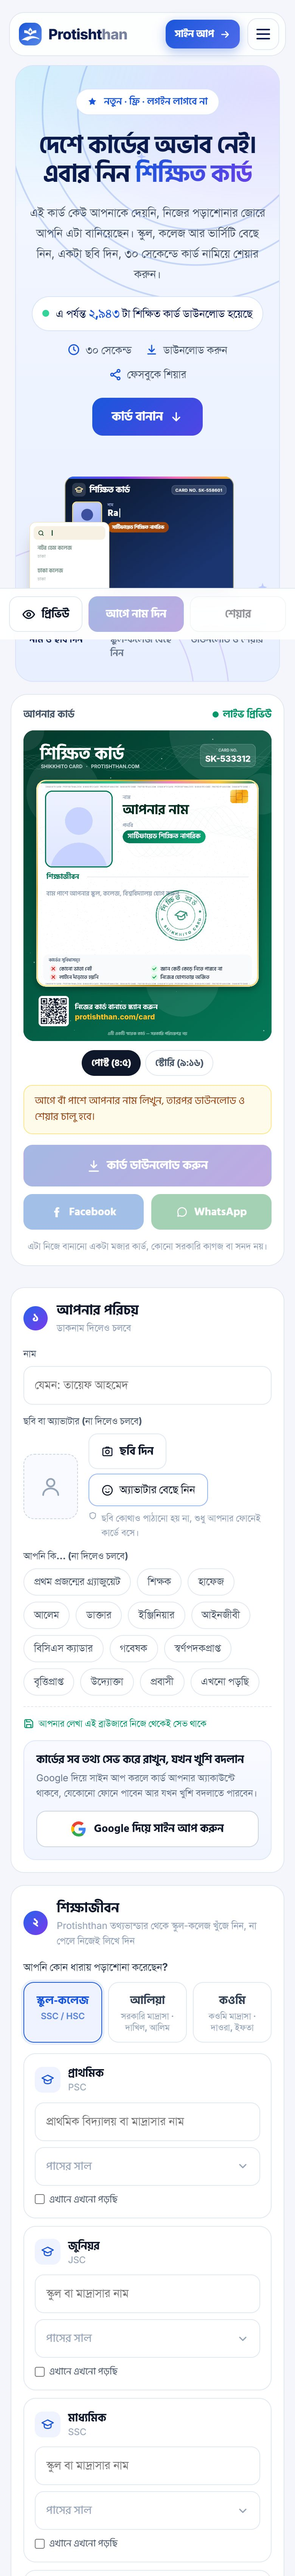
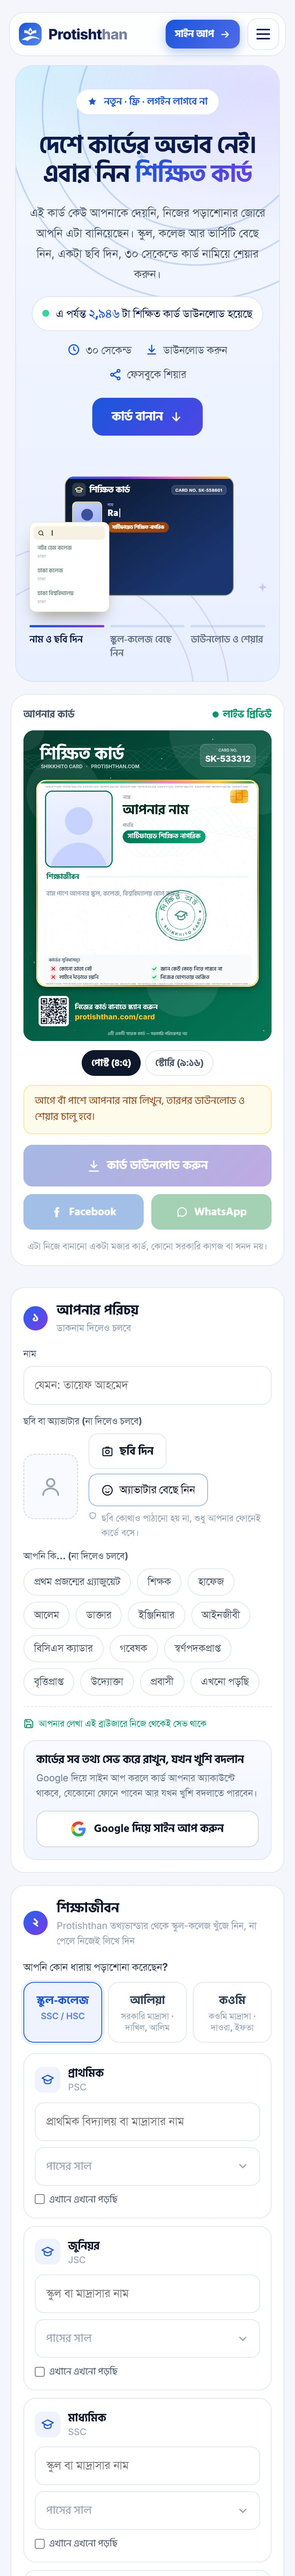
Collaborate page: the brand's places sit at clean gaps between sections of the real pages (card, skill, system); the card picture no longer has the fixed bottom bar in it.

Changed region(s): [[0.0615, 0.2182, 0.8615, 0.2494]]

diff --git a/collaborate.html b/collaborate.html
@@ -22,7 +22,7 @@
 <link rel="stylesheet" href="brand.css?v=3">
 <link rel="stylesheet" href="/nav.css?v=18">
 <link rel="stylesheet" href="/footer.css?v=5">
-<link rel="stylesheet" href="/collaborate.css?v=14">
+<link rel="stylesheet" href="/collaborate.css?v=15">
 <script src="/analytics.js?v=3" defer></script>
 </head>
 <body>
@@ -261,10 +261,10 @@
       <div class="co-pn" role="tabpanel" id="pn-card" aria-labelledby="tab-card" hidden style="--g:linear-gradient(135deg,#7C3AED,#DB2777);--c:#7C3AED;--soft:linear-gradient(160deg,#F6F0FF,#FDF2F8)">
         <div class="co-stage">
           <i class="st-o o1"></i><i class="st-o o2"></i>
-          <div class="ph" aria-hidden="true" style="--y1:-277px;--y2:-874px;--y3:-1332px;--s1:52.5px;--s2:165.6px;--s3:252.4px;--th:80px"><i class="ph-n"></i>
-            <div class="ph-view"><div class="ph-roll"><div class="seg" style="height:444.5px;background-image:url(/collab-ui/ui-card.jpg);background-size:220px 1917.9px;background-position:0 -0px"></div><div class="adw k1" style="height:88px"><div class="ad ad-b"><span class="tg">স্পন্সর</span><i class="lgo"><svg width="16" height="16" viewBox="0 0 24 24" fill="none" stroke="currentColor" stroke-width="2" stroke-linecap="round" stroke-linejoin="round" aria-hidden="true"><path d="m12 3 2.7 5.6 6.1.9-4.4 4.3 1 6.1L12 17l-5.4 2.9 1-6.1L3.2 9.5l6.1-.9L12 3z"/></svg></i><div class="tx"><b>আপনার ব্র্যান্ড</b><small>একটা ছোট, পরিষ্কার বার্তা</small></div><u>জানুন</u></div></div><div class="seg" style="height:491.9px;background-image:url(/collab-ui/ui-card.jpg);background-size:220px 1917.9px;background-position:0 -444.5px"></div><div class="adw k2" style="height:124px"><div class="ad ad-c"><span class="tg">স্পন্সর</span><div class="top"><i class="lgo"><svg width="16" height="16" viewBox="0 0 24 24" fill="none" stroke="currentColor" stroke-width="2" stroke-linecap="round" stroke-linejoin="round" aria-hidden="true"><path d="m12 3 2.7 5.6 6.1.9-4.4 4.3 1 6.1L12 17l-5.4 2.9 1-6.1L3.2 9.5l6.1-.9L12 3z"/></svg></i><div class="tx"><b>আপনার ব্র্যান্ড</b><small>আপনার সেবা বা অফারের পরিচিতি</small></div></div><div class="img"></div><div class="ft"><s>স্পন্সর করা</s><u>বিস্তারিত দেখুন →</u></div></div></div><div class="seg" style="height:341.3px;background-image:url(/collab-ui/ui-card.jpg);background-size:220px 1917.9px;background-position:0 -936.4px"></div><div class="adw k3" style="height:108px"><div class="ad ad-j"><span class="tg">যৌথভাবে</span><div class="duo"><i class="lgo pl"><img src="/logo-sm.webp" alt="" width="20" height="20"></i><em>+</em><i class="lgo"><svg width="16" height="16" viewBox="0 0 24 24" fill="none" stroke="currentColor" stroke-width="2" stroke-linecap="round" stroke-linejoin="round" aria-hidden="true"><path d="m12 3 2.7 5.6 6.1.9-4.4 4.3 1 6.1L12 17l-5.4 2.9 1-6.1L3.2 9.5l6.1-.9L12 3z"/></svg></i></div><div class="tx"><b>Protishthan × আপনার ব্র্যান্ড</b><small>একসঙ্গে একটা শিক্ষামূলক উদ্যোগ</small></div></div></div><div class="seg" style="height:640.3px;background-image:url(/collab-ui/ui-card.jpg);background-size:220px 1917.9px;background-position:0 -1277.7px"></div></div><i class="ph-sb"><b></b></i></div>
+          <div class="ph" aria-hidden="true" style="--y1:-344px;--y2:-889px;--y3:-1454px;--s1:65.2px;--s2:168.4px;--s3:275.5px;--th:80px"><i class="ph-n"></i>
+            <div class="ph-view"><div class="ph-roll"><div class="seg" style="height:512.2px;background-image:url(/collab-ui/ui-card.jpg);background-size:220px 1917.9px;background-position:0 -0px"></div><div class="adw k1" style="height:88px"><div class="ad ad-b"><span class="tg">স্পন্সর</span><i class="lgo"><svg width="16" height="16" viewBox="0 0 24 24" fill="none" stroke="currentColor" stroke-width="2" stroke-linecap="round" stroke-linejoin="round" aria-hidden="true"><path d="m12 3 2.7 5.6 6.1.9-4.4 4.3 1 6.1L12 17l-5.4 2.9 1-6.1L3.2 9.5l6.1-.9L12 3z"/></svg></i><div class="tx"><b>আপনার ব্র্যান্ড</b><small>একটা ছোট, পরিষ্কার বার্তা</small></div><u>জানুন</u></div></div><div class="seg" style="height:438.3px;background-image:url(/collab-ui/ui-card.jpg);background-size:220px 1917.9px;background-position:0 -512.2px"></div><div class="adw k2" style="height:124px"><div class="ad ad-c"><span class="tg">স্পন্সর</span><div class="top"><i class="lgo"><svg width="16" height="16" viewBox="0 0 24 24" fill="none" stroke="currentColor" stroke-width="2" stroke-linecap="round" stroke-linejoin="round" aria-hidden="true"><path d="m12 3 2.7 5.6 6.1.9-4.4 4.3 1 6.1L12 17l-5.4 2.9 1-6.1L3.2 9.5l6.1-.9L12 3z"/></svg></i><div class="tx"><b>আপনার ব্র্যান্ড</b><small>আপনার সেবা বা অফারের পরিচিতি</small></div></div><div class="img"></div><div class="ft"><s>স্পন্সর করা</s><u>বিস্তারিত দেখুন →</u></div></div></div><div class="seg" style="height:449.6px;background-image:url(/collab-ui/ui-card.jpg);background-size:220px 1917.9px;background-position:0 -950.5px"></div><div class="adw k3" style="height:108px"><div class="ad ad-j"><span class="tg">যৌথভাবে</span><div class="duo"><i class="lgo pl"><img src="/logo-sm.webp" alt="" width="20" height="20"></i><em>+</em><i class="lgo"><svg width="16" height="16" viewBox="0 0 24 24" fill="none" stroke="currentColor" stroke-width="2" stroke-linecap="round" stroke-linejoin="round" aria-hidden="true"><path d="m12 3 2.7 5.6 6.1.9-4.4 4.3 1 6.1L12 17l-5.4 2.9 1-6.1L3.2 9.5l6.1-.9L12 3z"/></svg></i></div><div class="tx"><b>Protishthan × আপনার ব্র্যান্ড</b><small>একসঙ্গে একটা শিক্ষামূলক উদ্যোগ</small></div></div></div><div class="seg" style="height:517.8px;background-image:url(/collab-ui/ui-card.jpg);background-size:220px 1917.9px;background-position:0 -1400.1px"></div></div><i class="ph-sb"><b></b></i></div>
           </div>
-          <ol class="co-legend" aria-label="ব্র্যান্ড কোথায় থাকতে পারে"><li class="lg k1"><span>১</span><div><b>কার্ডের শুরুতে</b><small>স্পন্সর ব্যানার</small></div></li><li class="lg k2"><span>২</span><div><b>ডাউনলোডের পরে</b><small>স্পন্সর কার্ড</small></div></li><li class="lg k3"><span>৩</span><div><b>ফর্মের মাঝে</b><small>যৌথ ক্যাম্পেইন</small></div></li></ol>
+          <ol class="co-legend" aria-label="ব্র্যান্ড কোথায় থাকতে পারে"><li class="lg k1"><span>১</span><div><b>প্রথম অংশের পরে</b><small>স্পন্সর ব্যানার</small></div></li><li class="lg k2"><span>২</span><div><b>ডাউনলোডের পরে</b><small>স্পন্সর কার্ড</small></div></li><li class="lg k3"><span>৩</span><div><b>ফর্মের দুটো ধাপের মাঝে</b><small>যৌথ ক্যাম্পেইন</small></div></li></ol>
           <span class="st-note">নমুনা চিত্র: আপনার ব্র্যান্ড এভাবে থাকতে পারে। সঠিক জায়গা আমরা একসঙ্গে ঠিক করব।</span>
         </div>
         <div class="co-pd">
@@ -315,10 +315,10 @@
       <div class="co-pn" role="tabpanel" id="pn-system" aria-labelledby="tab-system" hidden style="--g:linear-gradient(135deg,#B45309,#F59E0B);--c:#B45309;--soft:linear-gradient(160deg,#FFF7ED,#FEF3C7)">
         <div class="co-stage">
           <i class="st-o o1"></i><i class="st-o o2"></i>
-          <div class="ph" aria-hidden="true" style="--y1:-179px;--y2:-645px;--y3:-1666px;--s1:35.7px;--s2:128.7px;--s3:332.4px;--th:85px"><i class="ph-n"></i>
-            <div class="ph-view"><div class="ph-roll"><div class="seg" style="height:346.9px;background-image:url(/collab-ui/ui-software.jpg);background-size:220px 1805.1px;background-position:0 -0px"></div><div class="adw k1" style="height:88px"><div class="ad ad-b"><span class="tg">স্পন্সর</span><i class="lgo"><svg width="16" height="16" viewBox="0 0 24 24" fill="none" stroke="currentColor" stroke-width="2" stroke-linecap="round" stroke-linejoin="round" aria-hidden="true"><path d="m12 3 2.7 5.6 6.1.9-4.4 4.3 1 6.1L12 17l-5.4 2.9 1-6.1L3.2 9.5l6.1-.9L12 3z"/></svg></i><div class="tx"><b>আপনার ব্র্যান্ড</b><small>একটা ছোট, পরিষ্কার বার্তা</small></div><u>জানুন</u></div></div><div class="seg" style="height:359.9px;background-image:url(/collab-ui/ui-software.jpg);background-size:220px 1805.1px;background-position:0 -346.9px"></div><div class="adw k2" style="height:124px"><div class="ad ad-c"><span class="tg">স্পন্সর</span><div class="top"><i class="lgo"><svg width="16" height="16" viewBox="0 0 24 24" fill="none" stroke="currentColor" stroke-width="2" stroke-linecap="round" stroke-linejoin="round" aria-hidden="true"><path d="m12 3 2.7 5.6 6.1.9-4.4 4.3 1 6.1L12 17l-5.4 2.9 1-6.1L3.2 9.5l6.1-.9L12 3z"/></svg></i><div class="tx"><b>আপনার ব্র্যান্ড</b><small>আপনার সেবা বা অফারের পরিচিতি</small></div></div><div class="img"></div><div class="ft"><s>স্পন্সর করা</s><u>বিস্তারিত দেখুন →</u></div></div></div><div class="seg" style="height:905.4px;background-image:url(/collab-ui/ui-software.jpg);background-size:220px 1805.1px;background-position:0 -706.8px"></div><div class="adw k3" style="height:108px"><div class="ad ad-j"><span class="tg">যৌথভাবে</span><div class="duo"><i class="lgo pl"><img src="/logo-sm.webp" alt="" width="20" height="20"></i><em>+</em><i class="lgo"><svg width="16" height="16" viewBox="0 0 24 24" fill="none" stroke="currentColor" stroke-width="2" stroke-linecap="round" stroke-linejoin="round" aria-hidden="true"><path d="m12 3 2.7 5.6 6.1.9-4.4 4.3 1 6.1L12 17l-5.4 2.9 1-6.1L3.2 9.5l6.1-.9L12 3z"/></svg></i></div><div class="tx"><b>Protishthan × আপনার ব্র্যান্ড</b><small>একসঙ্গে একটা শিক্ষামূলক উদ্যোগ</small></div></div></div><div class="seg" style="height:192.9px;background-image:url(/collab-ui/ui-software.jpg);background-size:220px 1805.1px;background-position:0 -1612.2px"></div></div><i class="ph-sb"><b></b></i></div>
+          <div class="ph" aria-hidden="true" style="--y1:-179px;--y2:-706px;--y3:-1666px;--s1:35.7px;--s2:140.9px;--s3:332.4px;--th:85px"><i class="ph-n"></i>
+            <div class="ph-view"><div class="ph-roll"><div class="seg" style="height:346.9px;background-image:url(/collab-ui/ui-software.jpg);background-size:220px 1805.1px;background-position:0 -0px"></div><div class="adw k1" style="height:88px"><div class="ad ad-b"><span class="tg">স্পন্সর</span><i class="lgo"><svg width="16" height="16" viewBox="0 0 24 24" fill="none" stroke="currentColor" stroke-width="2" stroke-linecap="round" stroke-linejoin="round" aria-hidden="true"><path d="m12 3 2.7 5.6 6.1.9-4.4 4.3 1 6.1L12 17l-5.4 2.9 1-6.1L3.2 9.5l6.1-.9L12 3z"/></svg></i><div class="tx"><b>আপনার ব্র্যান্ড</b><small>একটা ছোট, পরিষ্কার বার্তা</small></div><u>জানুন</u></div></div><div class="seg" style="height:421.4px;background-image:url(/collab-ui/ui-software.jpg);background-size:220px 1805.1px;background-position:0 -346.9px"></div><div class="adw k2" style="height:124px"><div class="ad ad-c"><span class="tg">স্পন্সর</span><div class="top"><i class="lgo"><svg width="16" height="16" viewBox="0 0 24 24" fill="none" stroke="currentColor" stroke-width="2" stroke-linecap="round" stroke-linejoin="round" aria-hidden="true"><path d="m12 3 2.7 5.6 6.1.9-4.4 4.3 1 6.1L12 17l-5.4 2.9 1-6.1L3.2 9.5l6.1-.9L12 3z"/></svg></i><div class="tx"><b>আপনার ব্র্যান্ড</b><small>আপনার সেবা বা অফারের পরিচিতি</small></div></div><div class="img"></div><div class="ft"><s>স্পন্সর করা</s><u>বিস্তারিত দেখুন →</u></div></div></div><div class="seg" style="height:843.9px;background-image:url(/collab-ui/ui-software.jpg);background-size:220px 1805.1px;background-position:0 -768.3px"></div><div class="adw k3" style="height:108px"><div class="ad ad-j"><span class="tg">যৌথভাবে</span><div class="duo"><i class="lgo pl"><img src="/logo-sm.webp" alt="" width="20" height="20"></i><em>+</em><i class="lgo"><svg width="16" height="16" viewBox="0 0 24 24" fill="none" stroke="currentColor" stroke-width="2" stroke-linecap="round" stroke-linejoin="round" aria-hidden="true"><path d="m12 3 2.7 5.6 6.1.9-4.4 4.3 1 6.1L12 17l-5.4 2.9 1-6.1L3.2 9.5l6.1-.9L12 3z"/></svg></i></div><div class="tx"><b>Protishthan × আপনার ব্র্যান্ড</b><small>একসঙ্গে একটা শিক্ষামূলক উদ্যোগ</small></div></div></div><div class="seg" style="height:192.9px;background-image:url(/collab-ui/ui-software.jpg);background-size:220px 1805.1px;background-position:0 -1612.2px"></div></div><i class="ph-sb"><b></b></i></div>
           </div>
-          <ol class="co-legend" aria-label="ব্র্যান্ড কোথায় থাকতে পারে"><li class="lg k1"><span>১</span><div><b>হিরোর নিচে</b><small>স্পন্সর ব্যানার</small></div></li><li class="lg k2"><span>২</span><div><b>ড্যাশবোর্ডের নিচে</b><small>স্পন্সর কার্ড</small></div></li><li class="lg k3"><span>৩</span><div><b>মডিউলের পরে</b><small>যৌথ ক্যাম্পেইন</small></div></li></ol>
+          <ol class="co-legend" aria-label="ব্র্যান্ড কোথায় থাকতে পারে"><li class="lg k1"><span>১</span><div><b>হিরোর নিচে</b><small>স্পন্সর ব্যানার</small></div></li><li class="lg k2"><span>২</span><div><b>ড্যাশবোর্ডের পরে</b><small>স্পন্সর কার্ড</small></div></li><li class="lg k3"><span>৩</span><div><b>মডিউলের পরে</b><small>যৌথ ক্যাম্পেইন</small></div></li></ol>
           <span class="st-note">নমুনা চিত্র: আপনার ব্র্যান্ড এভাবে থাকতে পারে। সঠিক জায়গা আমরা একসঙ্গে ঠিক করব।</span>
         </div>
         <div class="co-pd">
